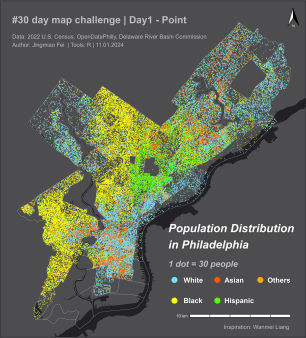
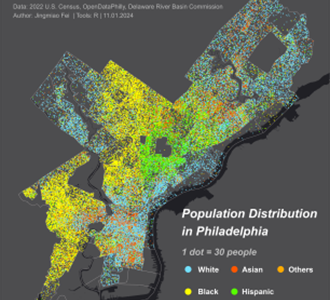
2

diff --git a/_sass/musa-website-mimic.scss b/_sass/musa-website-mimic.scss
@@ -299,6 +299,7 @@ h2::after {
   display: block;
   width: 100%; /* 容器宽度 */
   height: 300px; /* 固定高度，调整为你需要的尺寸 */
+  overflow: hidden;
 }
 
 .project-thumbnail {
@@ -311,8 +312,9 @@ h2::after {
   position: absolute;
   width: 100%;
   height:100%;
-  object-fit: fill; /* 让短边填满容器，长边超出部分自动裁剪 */
+  object-fit: cover; /* 让短边填满容器，长边超出部分自动裁剪 */
   object-position: center center; /* 图片居中裁剪 */
+  display: block;
 }
 
 .project-thumbnail-wrapper::before,.project-thumbnail-wrapper-cartography::before {
